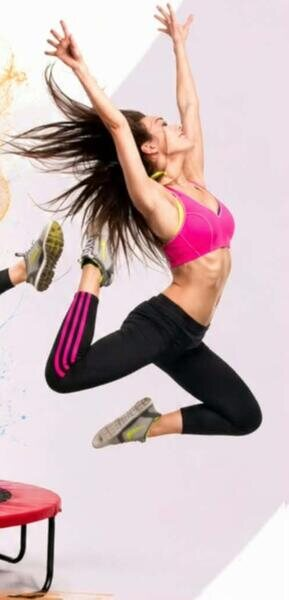
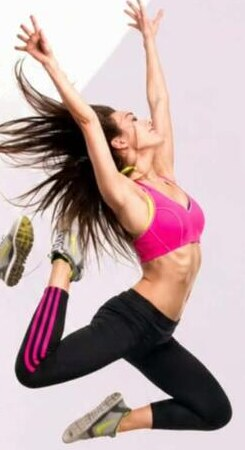
Corrige l'affiche écrasée de l'accueil, la galerie et la pastille du héro mobile
Claude-Session: https://claude.ai/code/session_01DQgv5smSNmifLsrmsssFq3

diff --git a/dance-and-jump/site/assets/css/style.css b/dance-and-jump/site/assets/css/style.css
@@ -5,7 +5,7 @@ main{overflow-x:clip}
 body{font-family:'Nunito',system-ui,sans-serif;font-size:1.0625rem;line-height:1.65;color:var(--noir);background:var(--creme);overflow-x:hidden;padding-top:68px}
 h1,h2,h3,.titre{font-family:'Rubik',sans-serif;font-weight:900;line-height:1.05;letter-spacing:-.01em;text-transform:uppercase}
 h1{font-size:clamp(2.4rem,9vw,5rem)}h2{font-size:clamp(1.8rem,5.5vw,3rem)}h3{font-size:1.3rem}
-a{color:inherit}img{max-width:100%;display:block}
+a{color:inherit}img{max-width:100%;height:auto;display:block}
 .wrap{width:min(1120px,100% - 32px);margin-inline:auto}
 section{padding:64px 0}
 .skip{position:absolute;left:-999px}.skip:focus{left:8px;top:8px;background:#fff;padding:8px;z-index:200}
@@ -46,7 +46,8 @@ section{padding:64px 0}
 @keyframes rebond{0%,100%{transform:rotate(-14deg) translateY(0)}40%{transform:rotate(-8deg) translateY(-12px) scale(1.08)}60%{transform:rotate(-14deg) translateY(0) scale(.96)}}
 @media(min-width:860px){.hero .wrap{grid-template-columns:1.3fr .8fr}.poster{width:min(380px,100%)}}
 .blob{position:absolute;border-radius:50%;z-index:1;opacity:.9;animation:rebond2 4s ease-in-out infinite}
-.b1{width:90px;height:90px;background:var(--orange);top:12%;left:6%}
+.b1{width:90px;height:90px;background:var(--orange);top:4%;right:6%}
+@media(min-width:860px){.b1{top:12%;left:6%;right:auto}}
 .b2{width:46px;height:46px;background:var(--vert);bottom:14%;left:42%;animation-delay:.8s}
 .b3{width:130px;height:130px;border:14px solid var(--rose);background:none;bottom:8%;right:6%;animation-delay:1.4s}
 .b4{width:30px;height:30px;background:#fff;top:20%;right:44%;animation-delay:.4s}
@@ -108,7 +109,7 @@ ul.check{list-style:none;padding:0;display:grid;gap:10px}ul.check li::before{con
 .arch{display:grid;gap:18px}.arch .card{display:grid;gap:6px}
 .annee{font-family:'Rubik';font-weight:900;font-size:2rem;color:var(--rose)}
 /* gallery */
-.gal{columns:2 160px;gap:14px}.gal figure{break-inside:avoid;margin-bottom:14px;border:3px solid var(--noir);border-radius:18px;overflow:hidden;background:#fff;transition:transform .3s cubic-bezier(.3,1.8,.5,1);cursor:zoom-in}
+.gal{columns:2 220px;gap:14px}.gal img{width:100%}.gal figure{break-inside:avoid;margin-bottom:14px;border:3px solid var(--noir);border-radius:18px;overflow:hidden;background:#fff;transition:transform .3s cubic-bezier(.3,1.8,.5,1);cursor:zoom-in}
 .gal figure:hover{transform:scale(1.04) rotate(-1deg)}
 .gal figcaption{padding:10px 12px;font-weight:700;font-size:.9rem}
 .lb{position:fixed;inset:0;background:rgba(0,0,0,.88);z-index:300;display:none;place-items:center;padding:20px}.lb.on{display:grid}.lb img{max-height:90vh;border-radius:12px}

diff --git a/dance-and-jump/site/contact.html b/dance-and-jump/site/contact.html
@@ -21,7 +21,7 @@
 <label>Je souhaite<select name="sujet"><option>Faire un cours d'essai</option><option>M'inscrire</option><option>Poser une question</option></select></label>
 <label>Message<textarea name="message" rows="5" required></textarea></label>
 <button class="btn rose" type="submit">Envoyer</button></form></div></div></section>
-<section style="padding-top:0"><div class="wrap"><h2 class="rv" style="margin-bottom:18px">Où nous trouver ?</h2><div class="rv" style="border:3px solid var(--noir);border-radius:22px;overflow:hidden;box-shadow:6px 6px 0 var(--noir)"><iframe title="Carte de Chaux (90330)" loading="lazy" style="width:100%;height:340px;border:0" src="https://www.openstreetmap.org/export/embed.html?bbox=6.78%2C47.64%2C6.90%2C47.72&amp;layer=mapnik"></iframe></div><p class="note">Commune de Chaux (90330). Adresse exacte de la salle : texte d'attente, à confirmer auprès de l'association.</p></div></section></main>
+<section style="padding-top:0"><div class="wrap"><h2 class="rv" style="margin-bottom:18px">Où nous trouver ?</h2><div class="rv" style="border:3px solid var(--noir);border-radius:22px;overflow:hidden;box-shadow:6px 6px 0 var(--noir)"><iframe title="Carte de Chaux (90330)" loading="lazy" style="width:100%;height:340px;border:0" src="https://www.openstreetmap.org/export/embed.html?bbox=6.78%2C47.64%2C6.90%2C47.72&amp;layer=mapnik"></iframe></div><p class="note">Commune de Chaux (90330) — <a href="https://www.openstreetmap.org/search?query=Chaux%2090330" target="_blank" rel="noopener">ouvrir la carte</a>. Adresse exacte de la salle : texte d'attente, à confirmer auprès de l'association.</p></div></section></main>
 <footer class="ftr"><div class="wrap"><div class="grid">
 <div><h3>Dance &amp; Jump</h3><p>Danse et jumping fitness à Chaux (90330). Bougez, dansez, vibrez !</p></div>
 <div><h3>Contact</h3><a href="tel:+33689048143">06 89 04 81 43</a><a href="mailto:laura.bulliard@hotmail.fr">laura.bulliard@hotmail.fr</a><a href="https://www.facebook.com/p/Association-Dance-and-Jump-100054577384773/" target="_blank" rel="noopener">Facebook : Association Dance and Jump</a></div>

diff --git a/dance-and-jump/tools/build.py b/dance-and-jump/tools/build.py
@@ -110,7 +110,7 @@ page("contact.html","Nous rejoindre & contact — Dance & Jump, Chaux",
 <label>Je souhaite<select name="sujet"><option>Faire un cours d'essai</option><option>M'inscrire</option><option>Poser une question</option></select></label>
 <label>Message<textarea name="message" rows="5" required></textarea></label>
 <button class="btn rose" type="submit">Envoyer</button></form></div></div></section>
-<section style="padding-top:0"><div class="wrap"><h2 class="rv" style="margin-bottom:18px">Où nous trouver ?</h2><div class="rv" style="border:3px solid var(--noir);border-radius:22px;overflow:hidden;box-shadow:6px 6px 0 var(--noir)"><iframe title="Carte de Chaux (90330)" loading="lazy" style="width:100%;height:340px;border:0" src="https://www.openstreetmap.org/export/embed.html?bbox=6.78%2C47.64%2C6.90%2C47.72&amp;layer=mapnik"></iframe></div><p class="note">Commune de Chaux (90330). Adresse exacte de la salle : texte d'attente, à confirmer auprès de l'association.</p></div></section>''')
+<section style="padding-top:0"><div class="wrap"><h2 class="rv" style="margin-bottom:18px">Où nous trouver ?</h2><div class="rv" style="border:3px solid var(--noir);border-radius:22px;overflow:hidden;box-shadow:6px 6px 0 var(--noir)"><iframe title="Carte de Chaux (90330)" loading="lazy" style="width:100%;height:340px;border:0" src="https://www.openstreetmap.org/export/embed.html?bbox=6.78%2C47.64%2C6.90%2C47.72&amp;layer=mapnik"></iframe></div><p class="note">Commune de Chaux (90330) — <a href="https://www.openstreetmap.org/search?query=Chaux%2090330" target="_blank" rel="noopener">ouvrir la carte</a>. Adresse exacte de la salle : texte d'attente, à confirmer auprès de l'association.</p></div></section>''')
 
 # 9 Mentions légales
 page("mentions-legales.html","Mentions légales — Dance & Jump",
